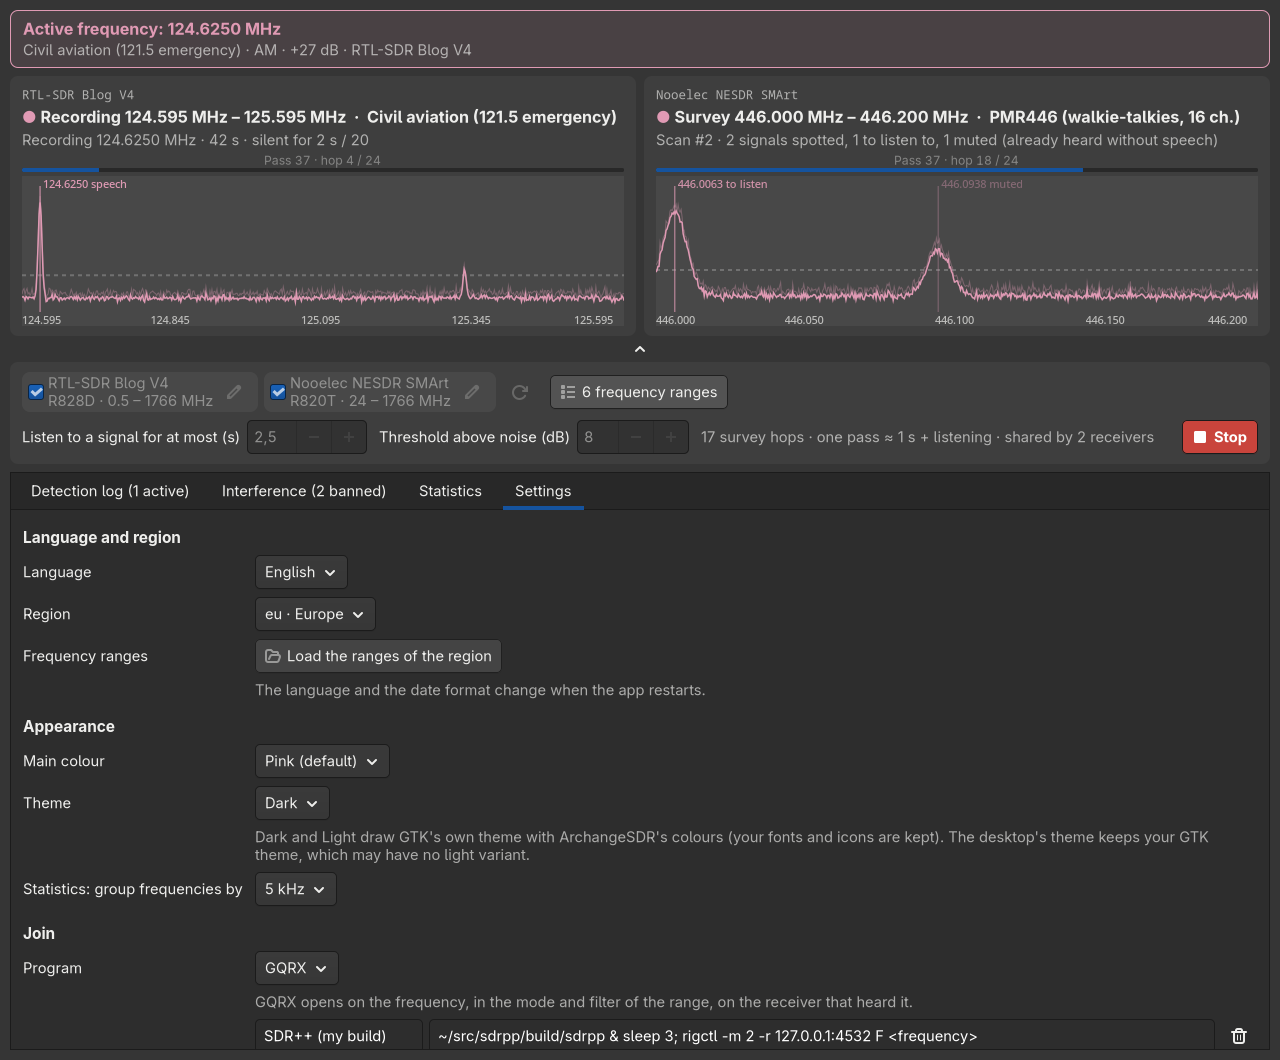
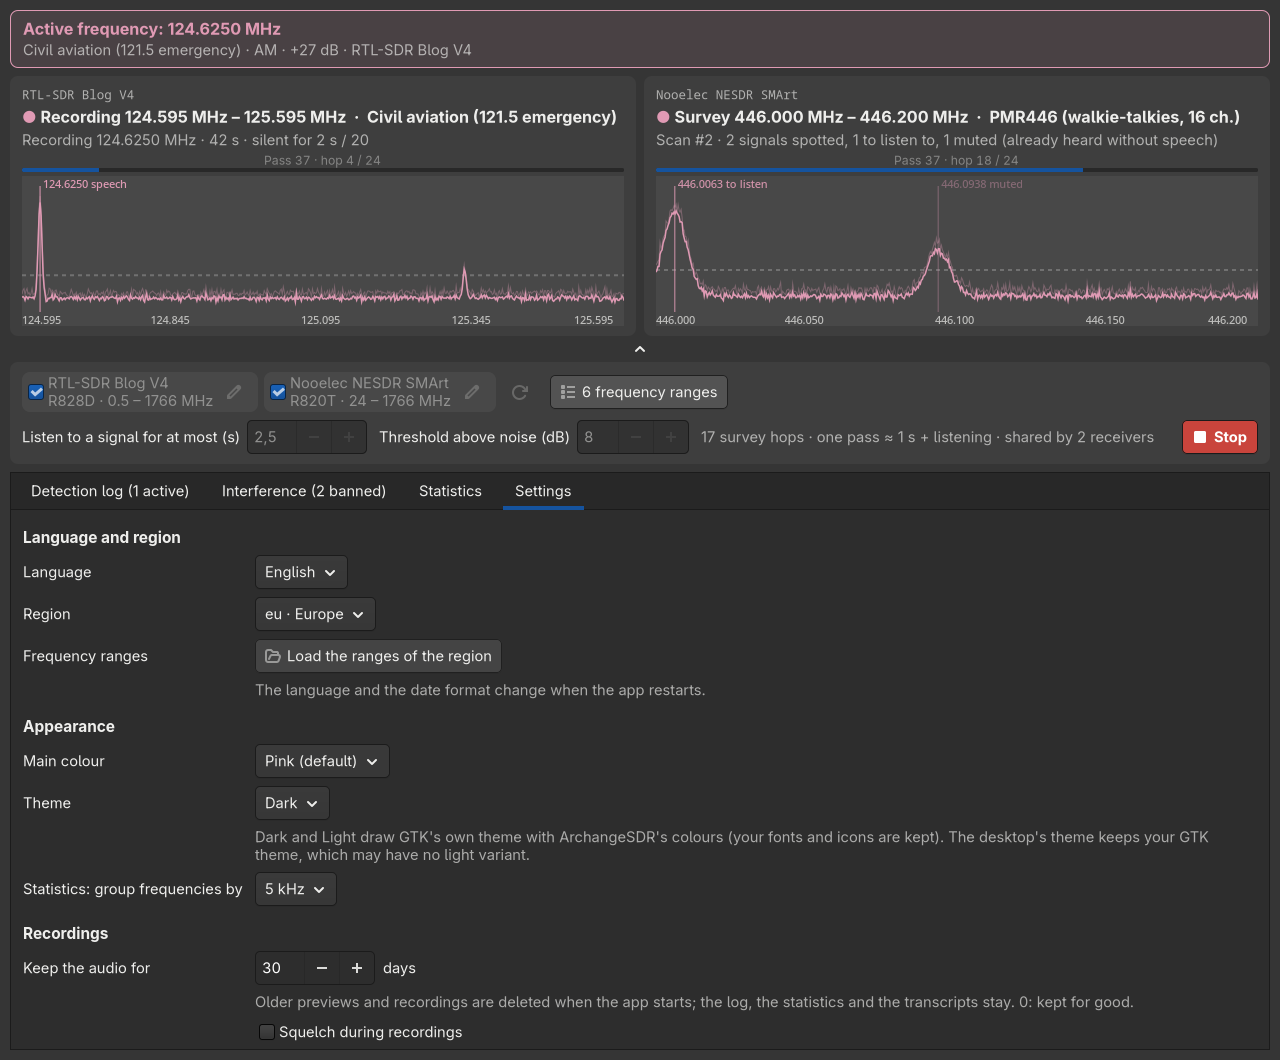
Recordings: audio retention, squelch off by default, new-activity chime
- Retention: previews and recordings older than N days (30 by default, 0 keeps them) are deleted once
  when the window starts; the log, statistics and transcripts stay.
- Squelch during recordings, off by default: pauses are written as heard (and 1 s after the last
  transmission), so a weak voice under the threshold is no longer cut.
- Optional alert: a chime, then the 2.5 s preview, when a new frequency talks.

Changed region(s): [[0.1875, 0.9028, 0.7812, 0.9962], [0.0312, 0.8717, 0.0938, 0.934], [0.8125, 0.934, 0.875, 0.9651]]

diff --git a/tests/test_recordings.py b/tests/test_recordings.py
@@ -1,0 +1,130 @@
+"""Recordings: the retention (old audio deleted at start), the squelch during a recording (off: the pauses
+as heard, on: zeros) and the new-activity alert (a chime, then the preview)."""
+import os
+import shutil
+import tempfile
+import time
+import unittest
+import wave
+
+import numpy as np
+
+from tests.support import FS, app
+
+RATE = 16_000
+STEP = RATE // 10                     # one 100 ms frame of audio
+
+
+def frames(path):
+    with wave.open(path) as w:
+        return np.frombuffer(w.readframes(w.getnframes()), "<i2")
+
+
+class Retention(unittest.TestCase):
+    def setUp(self):
+        self.a = app()
+        self.tmp = tempfile.mkdtemp()
+        self.store = self.a.Store(os.path.join(self.tmp, "scanner.db"))
+
+    def tearDown(self):
+        self.store.db.close()
+        shutil.rmtree(self.tmp, ignore_errors=True)
+
+    def detection(self, days_ago, name):
+        paths = []
+        for kind in ("clip", "rec"):
+            paths.append(os.path.join(self.tmp, "%s-%s.wav" % (name, kind)))
+            self.a.write_wav(paths[-1], np.zeros(STEP))
+        seen = time.time() - days_ago * 86400
+        did = self.store.q("INSERT INTO detections (scan_id, freq, mode, label, first_seen, last_seen, hits, snr, "
+                           "score, kind, audio, recording, rec_s) VALUES (0, 145.5e6, 'NFM', '2 m', ?, ?, 1, 20, "
+                           "1.5, 'voice', ?, ?, 1)", (seen, seen, paths[0], paths[1]), True)
+        return did, paths
+
+    def test_purge(self):
+        old, old_paths = self.detection(40, "old")
+        new, new_paths = self.detection(5, "new")
+        self.store.q("INSERT INTO freq_rules (key, freq, audio) VALUES (1, 145.5e6, ?)", (old_paths[0],), True)
+        self.store.request_transcript(old)
+        self.assertEqual(self.store.purge(0), 0)                 # 0: kept for good
+        self.assertTrue(all(os.path.exists(p) for p in old_paths))
+        self.assertEqual(self.store.purge(30), 2)
+        self.assertFalse(any(os.path.exists(p) for p in old_paths))
+        self.assertTrue(all(os.path.exists(p) for p in new_paths))
+        rows = dict((r[0], r[1:]) for r in self.store.q("SELECT id, audio, recording, rec_s FROM detections"))
+        self.assertEqual(rows[old], (None, None, 1))               # the row stays, its audio goes
+        self.assertEqual(rows[new][:2], tuple(new_paths))
+        self.assertIsNone(self.store.q("SELECT audio FROM freq_rules")[0][0])
+        self.assertIsNone(self.store.next_transcript())           # nothing left to transcribe
+        self.assertEqual(self.store.purge(30), 0)
+
+    def test_default(self):
+        settings = self.a.load_settings()
+        try:
+            self.a.save_settings({})
+            self.assertEqual(self.a.recording_conf(), (30, False, False))
+            self.a.save_settings({"retention_days": "x", "record_squelch": True, "preview_alert": True})
+            self.assertEqual(self.a.recording_conf(), (30, True, True))
+        finally:
+            self.a.save_settings(settings)
+
+
+class Squelch(unittest.TestCase):
+    def setUp(self):
+        self.a = app()
+        self.tmp = tempfile.mkdtemp()
+        self.store = self.a.Store(os.path.join(self.tmp, "scanner.db"))
+        self.settings, self.dir = self.a.load_settings(), self.a.RECORDINGS_DIR
+        self.a.RECORDINGS_DIR = self.tmp
+
+    def tearDown(self):
+        self.a.save_settings(self.settings)
+        self.a.RECORDINGS_DIR = self.dir
+        self.store.db.close()
+        shutil.rmtree(self.tmp, ignore_errors=True)
+
+    def record(self, squelch, on):
+        """A recording fed one second of noise whose frames are on (above the threshold) or not."""
+        self.a.save_settings({"record_squelch": squelch})
+        start = np.full(STEP, 0.5)
+        sig = {"id": len(on) + 10 * squelch, "freq": 0.0, "demod": "am", "gain": 1.0,
+               "audio": np.concatenate([start, np.zeros(STEP)]), "audio_open": start}
+        rec = self.a.Recording(self.store, sig, 10)
+        iq = (np.random.default_rng(1).standard_normal((FS, 2)) @ [1, 1j]).astype(np.complex64)
+        freqs = np.linspace(-100_000, 100_000, 201)
+        P = np.where(np.array(on, bool)[:, None], 1000.0, 1.0) * np.ones((len(on), len(freqs)))
+        rec.feed(iq, 0.0, freqs, P, np.ones(len(on)), FS)
+        rec.close()
+        return frames(rec.path)[STEP:]                # after the capture that started it
+
+    def test_pause(self):
+        on = [1, 1, 0, 0, 0, 0, 0, 1, 1, 1]           # a pause longer than the hang time
+        with_squelch, without = self.record(True, on), self.record(False, on)
+        self.assertEqual(len(with_squelch), 10 * STEP)
+        self.assertEqual(len(without), 10 * STEP)
+        pause = slice(2 * STEP, 7 * STEP)
+        self.assertFalse(with_squelch[pause].any())             # zeros
+        self.assertGreater(np.count_nonzero(without[pause]), 4 * STEP)    # the audio as heard
+
+    def test_end(self):
+        on = [1, 1, 0, 0, 0, 0, 0, 0, 0, 0]
+        self.assertEqual(len(self.record(True, on)), 2 * STEP)             # the final silence goes
+        self.assertEqual(len(self.record(False, on)), 2 * STEP + 8 * STEP)  # up to REC_TAIL_S of it stays
+        self.assertEqual(self.a.REC_TAIL_S, 1.0)
+
+
+class Alert(unittest.TestCase):
+    def test_chime_then_preview(self):
+        a = app()
+        preview = np.linspace(-0.5, 0.5, 2 * RATE)
+        out = a.alert_audio(preview, RATE)
+        chime = int(a.ALERT_TONE_S * RATE)
+        self.assertEqual(len(out), chime + int(a.ALERT_GAP_S * RATE) + len(preview))
+        np.testing.assert_array_equal(out[-len(preview):], preview)
+        self.assertLessEqual(np.abs(out[:chime]).max(), 1.0)
+        self.assertGreater(np.abs(out[:chime]).max(), 0.3)
+        self.assertLess(abs(out[0]), 0.01)                     # no click
+
+
+if __name__ == "__main__":
+    unittest.main()

diff --git a/tests/test_scanner.py b/tests/test_scanner.py
@@ -108,9 +108,10 @@ class EndToEnd(unittest.TestCase):
         with wave.open(recording) as w:
             self.assertEqual(w.getframerate(), 2 * a.AUDIO_HALF_BW)
             seconds = w.getnframes() / w.getframerate()
-        # the talk lasts 6 s from the start of the scan; the survey and the listen took the first ~2.6 s
+        # the talk lasts 6 s from the start of the scan; the survey and the listen took the first ~2.6 s;
+        # without the squelch (the default) up to REC_TAIL_S after the last word is kept
         self.assertGreater(seconds, 2.0)
-        self.assertLess(seconds, 6.5)
+        self.assertLess(seconds, 6.5 + a.REC_TAIL_S)
         self.assertAlmostEqual(rec_s, seconds, delta=0.1)
         self.assertTrue(any(hit[1]["voice"] for hit in events["on_hit"]))
         self.assertTrue(events["on_record"][-1][-1])            # the recording was closed

diff --git a/AGENT.md b/AGENT.md
@@ -104,8 +104,18 @@ detection, in en / fr / de / es. It ships standalone and inside two desktops by 
   per detection row (`recordings/<id>.wav`); a conversation heard again within 2 min (the same row) is
   appended. The level is the gain of the first capture (no normalisation afterwards: it streams to
   disk).
+- **Squelch during a recording** (`settings["record_squelch"]`, off by default): off, the pauses (frames
+  under the threshold) are written as heard, and up to `REC_TAIL_S` = 1 s after the last transmission;
+  the recording starts with the capture ungated (`sig["audio_open"]`). On, they are zeros. Off is the
+  default because the threshold cut weak words mid-sentence: losing speech is worse than noise to clean
+  up afterwards. The preview (`sig["audio"]`) stays gated either way (FM noise would cover it).
+- **Retention** (`settings["retention_days"]`, `RETENTION_DAYS` = 30, 0 = kept): `Store.purge` deletes the
+  clips and recordings of detections last heard before the limit and clears their paths; the rows,
+  statistics and transcripts stay. Once, at the window's start, in a thread: no watcher over the files.
 - **Captures**: every kept signal, interference included, gets its 2.5 s WAV (`clips/<id>.wav`), so a
-  false positive can be heard before whitelisting it.
+  false positive can be heard before whitelisting it. With `settings["preview_alert"]`, a new speech
+  row plays a chime then its preview (`alert_audio`, `App.play_alert`, `DATA_DIR/alert.wav`), unless
+  something is already playing.
 - **FM broadcast** (WFM ranges): no speech test, the station finder works on the 100 kHz raster (so
   the 30 kHz OIRT band is not listed for Russia).
 
@@ -216,8 +226,9 @@ The dongle is not always plugged in; the tests need none.
   `test_detector.py` (synthetic scenes through survey and analyze: speech in NFM, AM, USB, LSB; music,
   carrier, wide signal, burst, noise, two speakers, FM stations; other sample rates; the detector's
   memory), `test_scanner.py` (the sweep plan and whole scans on fake receivers, recording included),
-  `test_soapy.py` (a fake SoapySDR module). `tests/support.py` has the speech generator (glottal
-  pulses, formants, syllables: invented, no real recording), the emitters, `Scene` and `FakeSdr`.
+  `test_soapy.py` (a fake SoapySDR module), `test_recordings.py` (retention, squelch, the alert's
+  chime). `tests/support.py` has the speech generator (glottal pulses, formants, syllables: invented,
+  no real recording), the emitters, `Scene` and `FakeSdr`.
 - The detector's numbers (score, SNR, frequency) are compared with `tests/baseline.json` within a margin.
   After a deliberate change of the processing: `python3 -m tests.test_detector --update-baseline`, then
   read the diff of the JSON. A verdict that changes is a regression, not a baseline to update.

diff --git a/README.md b/README.md
@@ -29,6 +29,9 @@ that, which keeps it fast on a small ARM board.
   as it is clear (1 to 2.5 s).
 - **Speech, not noise**: AM, FM and SSB are tried; carriers, data, tones and wide signals are rejected.
 - **Whole conversations recorded**, pauses included, until 20 s of silence; a 2.5 s preview of each one.
+  No squelch by default during a recording: a weak voice is never cut (pauses keep their noise). An
+  optional chime plays the preview as soon as a new frequency talks. The audio is kept 30 days (your
+  choice), the log for good.
 - **Interference memory**: a frequency heard 3 times in a row without speech is banned for good; mark
   the false positives as "not interference".
 - **Several receivers** share the work, each taking first what only it can tune (HF on a Blog V4), never
@@ -129,7 +132,7 @@ archangesdr --bands                      # the configured ranges
 ```
 
 In the window: tick your receivers and your ranges, then **Scan**. Everything else (language, region,
-theme, Join program, notifications, transcription) is in the **Settings** tab. On a short screen, the
+theme, recordings, Join program, notifications, transcription) is in the **Settings** tab. On a short screen, the
 arrow under the scan cards folds their spectra away (the choice is kept). `SIGUSR1` pauses the scan
 and frees the receivers, for a launcher that needs them: `pkill -USR1 -f /archangesdr`.
 
@@ -178,7 +181,8 @@ moves to the new folders at the first start.
 ## Privacy and the law
 
 Your recordings stay on your computer, unless you choose a remote transcription API or ntfy
-attachments. Listening to the radio is legal or tolerated in most countries; disclosing or using what
+attachments. Previews and recordings older than 30 days are deleted when the app starts (**Settings →
+Recordings**, 0 keeps them for good); the log and the transcripts stay. Listening to the radio is legal or tolerated in most countries; disclosing or using what
 you hear often is not, and decrypting is never done. Check your local law: the last group of ranges of
 each region says how it treats listening.
 
